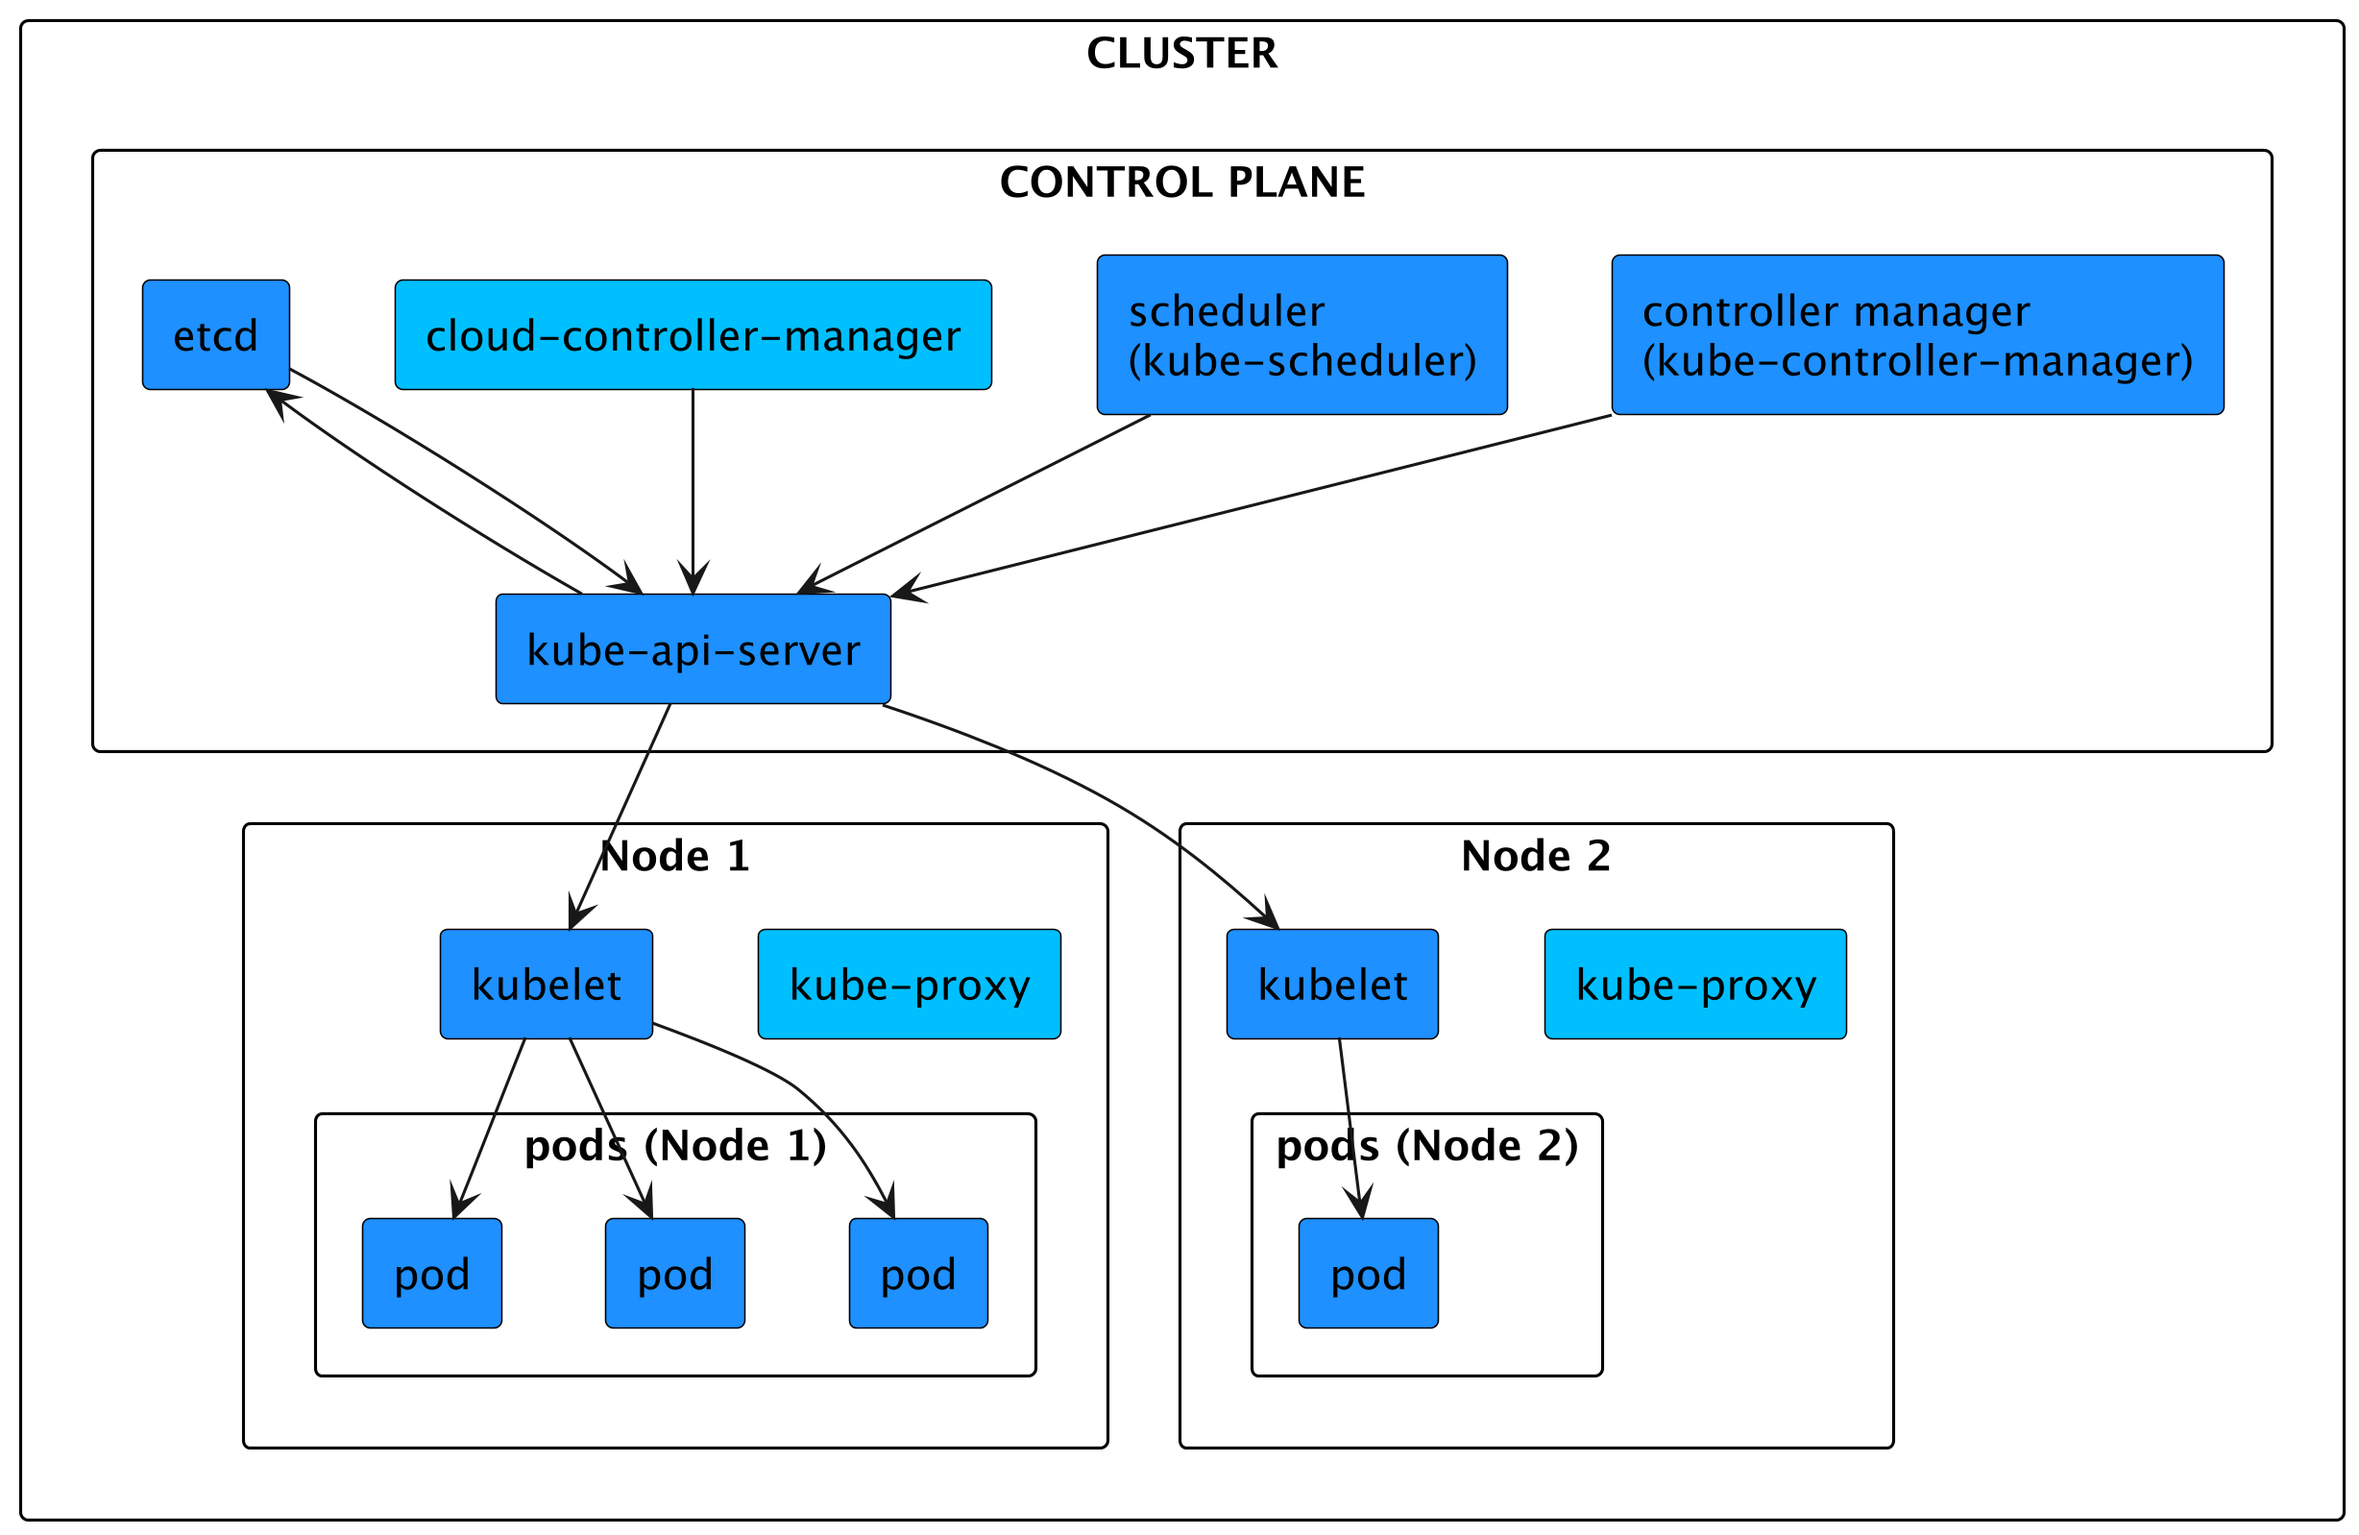
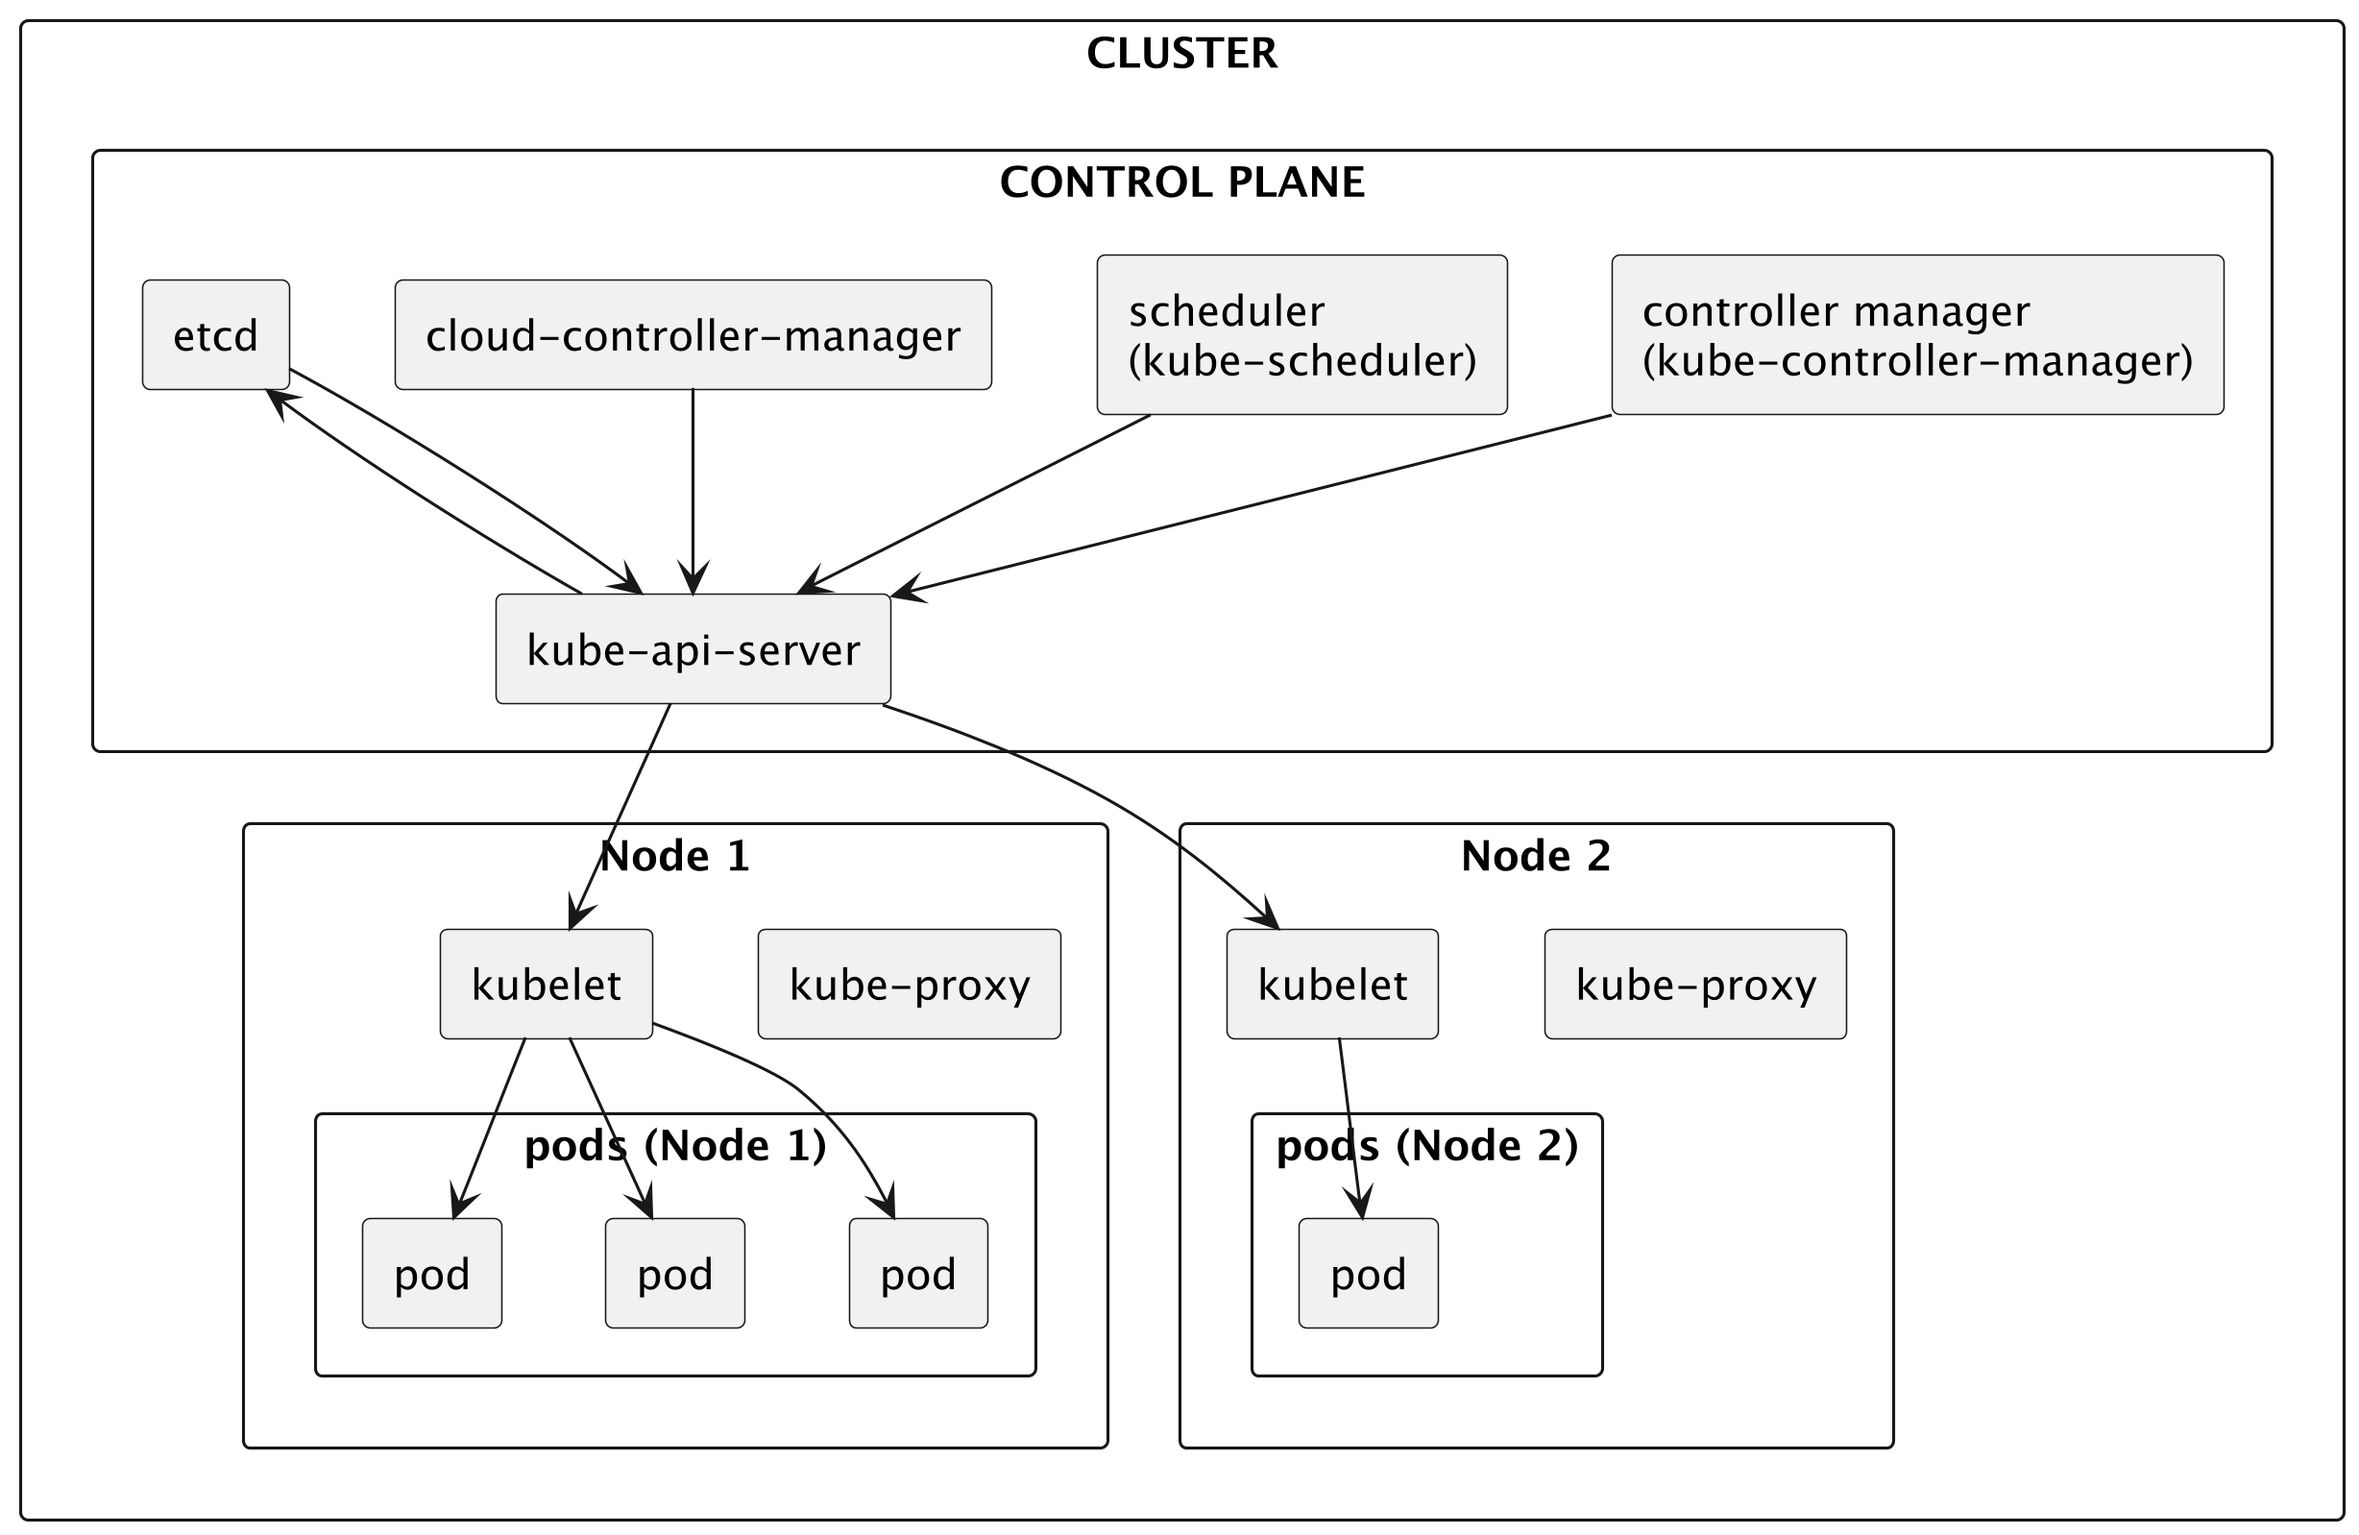
feat: improve diagrams and update description for protein prediction process

diff --git a/design.tex b/design.tex
@@ -136,19 +136,37 @@ Funkcjonalność automatycznego czyszczenia zasobów podrzędnych jest zrealizow
 \begin{figure}[htbp]
     \centering
     \includegraphics[width=\textwidth]{images/proteindatabase}
-    \caption{Cluster resource archuitecture of ProteinDatabase}
+    \caption{Cluster resource architecture of ProteinDatabase}
     \label{fig:proteindatabase}
 \end{figure}
 
 \begin{figure}[htbp]
     \centering
     \includegraphics[width=\textwidth]{images/proteinconformationprediction}
-    \caption{Cluster resource archuitecture of ProteinConformationPrediction}
+    \caption{Cluster resource architecture of ProteinConformationPrediction}
     \label{fig:proteinconformationprediction}
 \end{figure}
 
-%z kolei zasób \textit{ProteinConformationPrediction},
+z kolei zasób \textit{ProteinConformationPrediction} zarządza trzema Jobami.
+\begin{itemize}
+    \item Faza Alignmentu.
+    W tej fazie AlphaFold przeszukuje istniejące bazy danych białek w celu znalezienia dopasowań.
+    Ta faza odbywa się w podzie schedulowanych na instancjach zoptymalizowanych pod względem CPU. Pod używa obrazu AlphaFold.
+    \item Faza Predykcji.
+    Faza, w której algorytm dokonuje faktycznej predykcji trójwymiarowej struktury białka.
+    W tej fazie pody są scheduowane na instancjach wyposażonych w akceleratory obliczeń tensorowych.
+    Pod również używa obrazu AlphaFold.
+    \item Faza Post Processingu.
+    Ta faza odpowiada za wysłanie artefaktów do docelowego magazynu danych oraz ewentualne wysłanie powiadomień do członków zespołu badawczego.
+    Pod używa obrazu komponentu Managera.
+\end{itemize}
 
+Zatem na każde wystąpienie zasobu \textit{ProteinConformationPrediction} przypadają dokładnie trzy Joby i trzy pody.
+Oprócz tego \textit{ProteinConformationPrediction} tworzy PersistentVolumeClaim na dane tymczasowe.
+W tym wolumenie są składowane wyniki fazy Alignment oraz potencjalnie znalezione struktury białka.
+
+Podobnie jak w przypadku \textit{ProteinDatabase} zasoby są ze sobą spięte mechanizmem \textit{ownerReferences}.
+Architektura zależności zasobów została przedstawiona na diagramie~\ref{fig:proteinconformationprediction}.
 
 \section{Opis komponentów}
 
